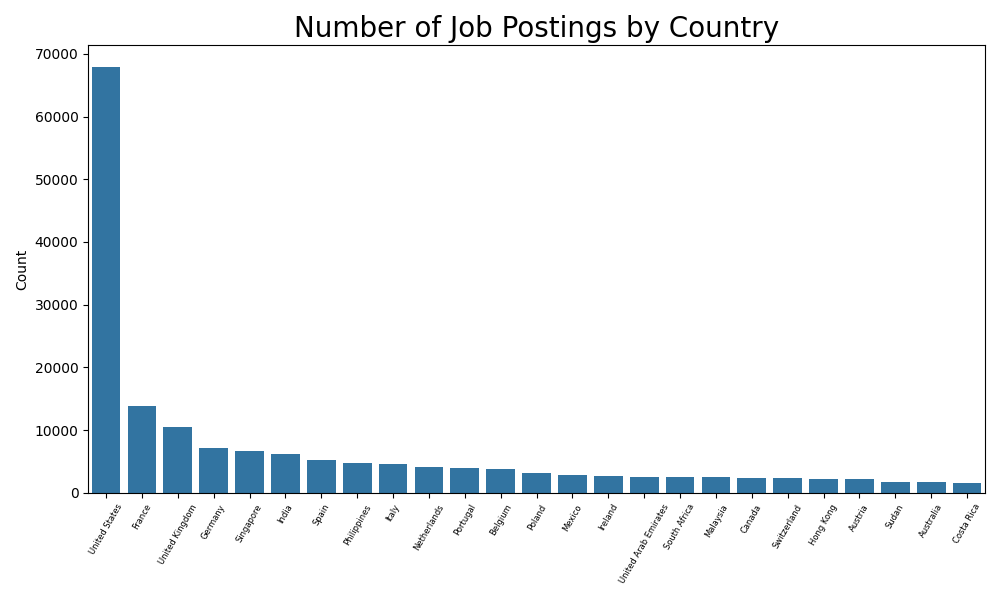
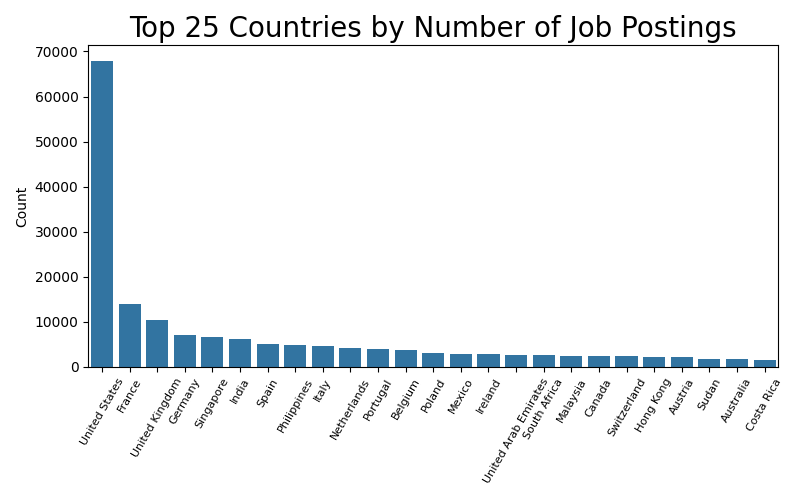
Updated.

Changed region(s): [[0.0, 0.03, 1.0, 0.99], [0.75, 0.9, 0.7812, 0.93]]

diff --git a/analysis/by_skill.py b/analysis/by_skill.py
@@ -1,0 +1,50 @@
+import psycopg2
+import matplotlib.pyplot as plt
+import seaborn as sns
+import pandas as pd
+
+from db.db_connection import create_connection
+
+def job_count_by_skill():
+    conn = create_connection()
+    if conn is None:
+        return
+
+    try:
+        cursor = conn.cursor()
+
+        cursor.execute("""
+SELECT 
+    skills,
+    COUNT(skills_job_dim.job_id) AS demand_count
+FROM job_postings_fact
+INNER JOIN skills_job_dim ON job_postings_fact.job_id = skills_job_dim.job_id
+INNER JOIN skills_dim ON skills_job_dim.skill_id = skills_dim.skill_id
+WHERE
+    job_title_short = 'Data Analyst'
+GROUP BY
+    skills
+ORDER BY demand_count DESC
+LIMIT 7
+""")
+
+        skills = cursor.fetchall()
+        data = pd.DataFrame(skills, columns=['Skill', 'Job Postings Count'])
+        
+        plt.figure(figsize=(8, 5))
+        sns.barplot(x='Skill', y='Job Postings Count', data=data)
+        plt.title('Top 7 Skills by Number of Job Postings', fontsize=20)
+        plt.xlabel('')
+        plt.ylabel('Count')
+        plt.xticks(rotation=0, fontsize=8)
+        plt.tight_layout()
+
+        image_path = 'images/job_postings_by_skill.png'
+        plt.savefig(image_path)
+
+        plt.close()
+
+    except psycopg2.Error as e:
+        print(f"Error executing query: {e}")
+    finally:
+        conn.close()

diff --git a/analysis/by_country.py b/analysis/by_country.py
@@ -29,12 +29,12 @@ LIMIT 25
         df = pd.DataFrame(countries, columns=['Country', 'Job Postings Count'])
         data = df.sort_values(by='Job Postings Count', ascending=False)
         
-        plt.figure(figsize=(10, 6))
+        plt.figure(figsize=(8, 5))
         sns.barplot(x='Country', y='Job Postings Count', data=data)
         plt.title('Top 25 Countries by Number of Job Postings', fontsize=20)
         plt.xlabel('')
         plt.ylabel('Count')
-        plt.xticks(rotation=60, fontsize=6)
+        plt.xticks(rotation=60, fontsize=8)
         plt.tight_layout()
 
         image_path = 'images/job_postings_by_country.png'

diff --git a/main.py b/main.py
@@ -1,4 +1,7 @@
 from analysis.by_country import job_count_by_country
+from analysis.by_skill import job_count_by_skill
 
 if __name__ == "__main__":
     job_count_by_country()
+    job_count_by_skill()
+    

diff --git a/README.md b/README.md
@@ -1,9 +1,10 @@
 # Job Postings Analysis with SQL and Python  
 _________________________________________________________________
 
+## Data Analyst Job Postings
 
 ![Job Postings by Country](images/job_postings_by_country.png)  
-
+![Job Postings by Skill](images/job_postings_by_skill.png)  
 _________________________________________________________________
 
 
